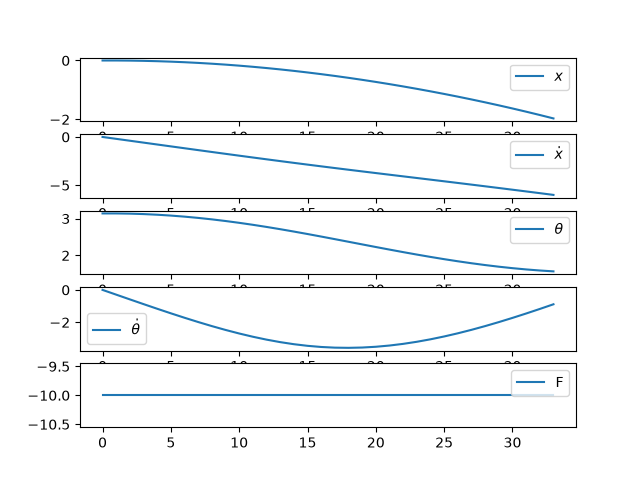
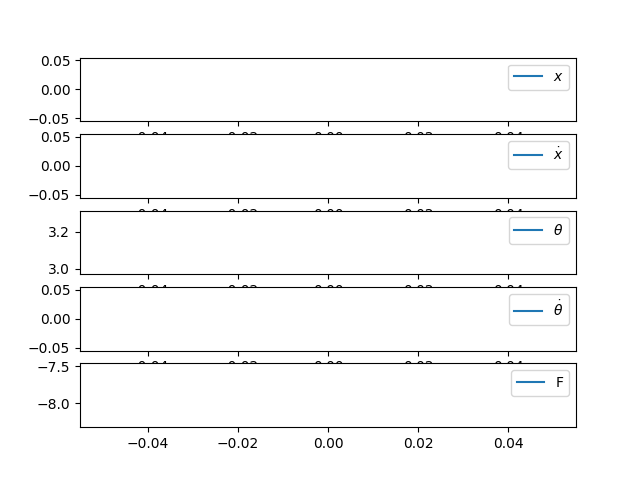
bugs fixed

diff --git a/experiments/reinforce_cart_pole.py b/experiments/reinforce_cart_pole.py
@@ -7,7 +7,7 @@ from utils.reinforce_training import Training
 # Genral hyper-parameters
 n_episodes = 10001
 gamma      = 0.99 # Discount factor
-action_dim = 2
+action_dim = 20
 seed       = 0
 epsilon    = 0.9 # I added this to encourage exploration 
 
@@ -44,7 +44,7 @@ for episode in range(1,n_episodes):
         action = distribution.sample()
         next_state, reward, terminate = env.step(state, agent.actions[action])
 
-        if terminate:
+        if terminate == 'terminal' or terminate == 'truncate':
             break
 
         state = next_state
